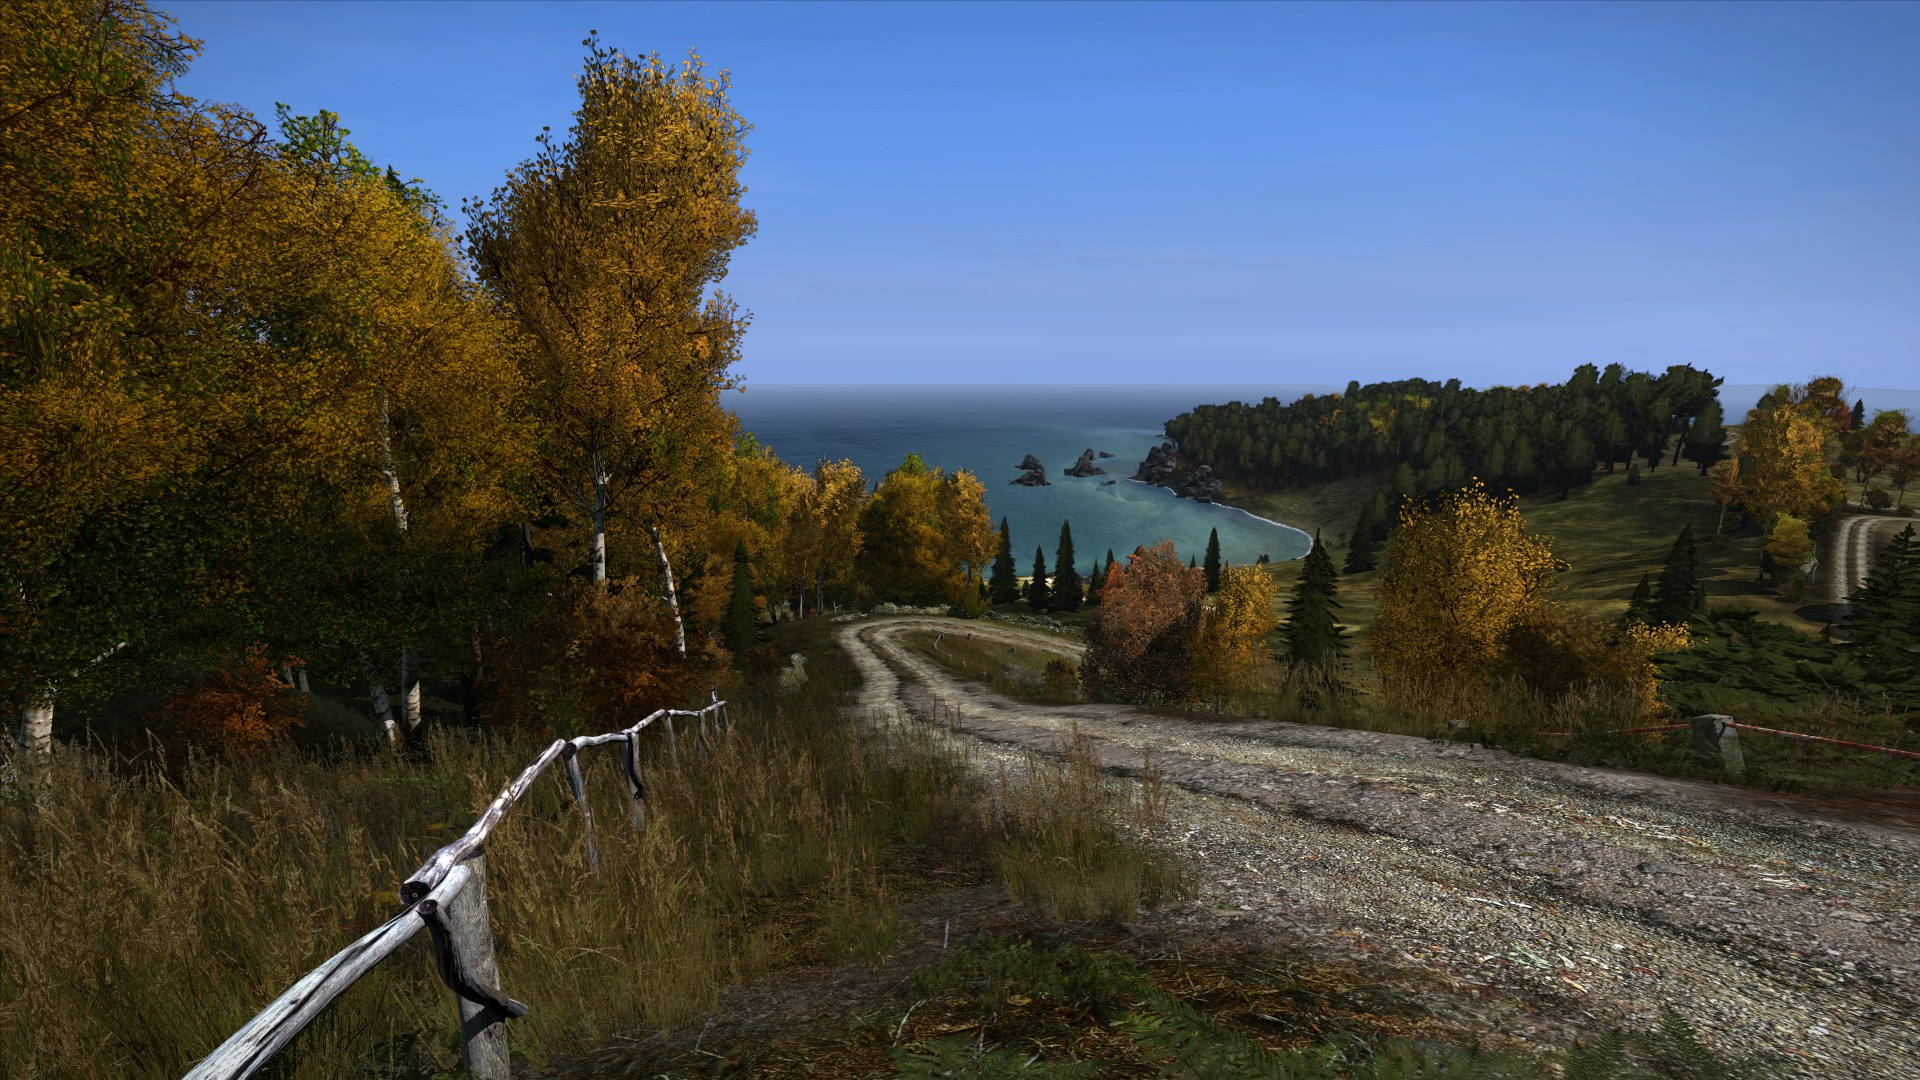
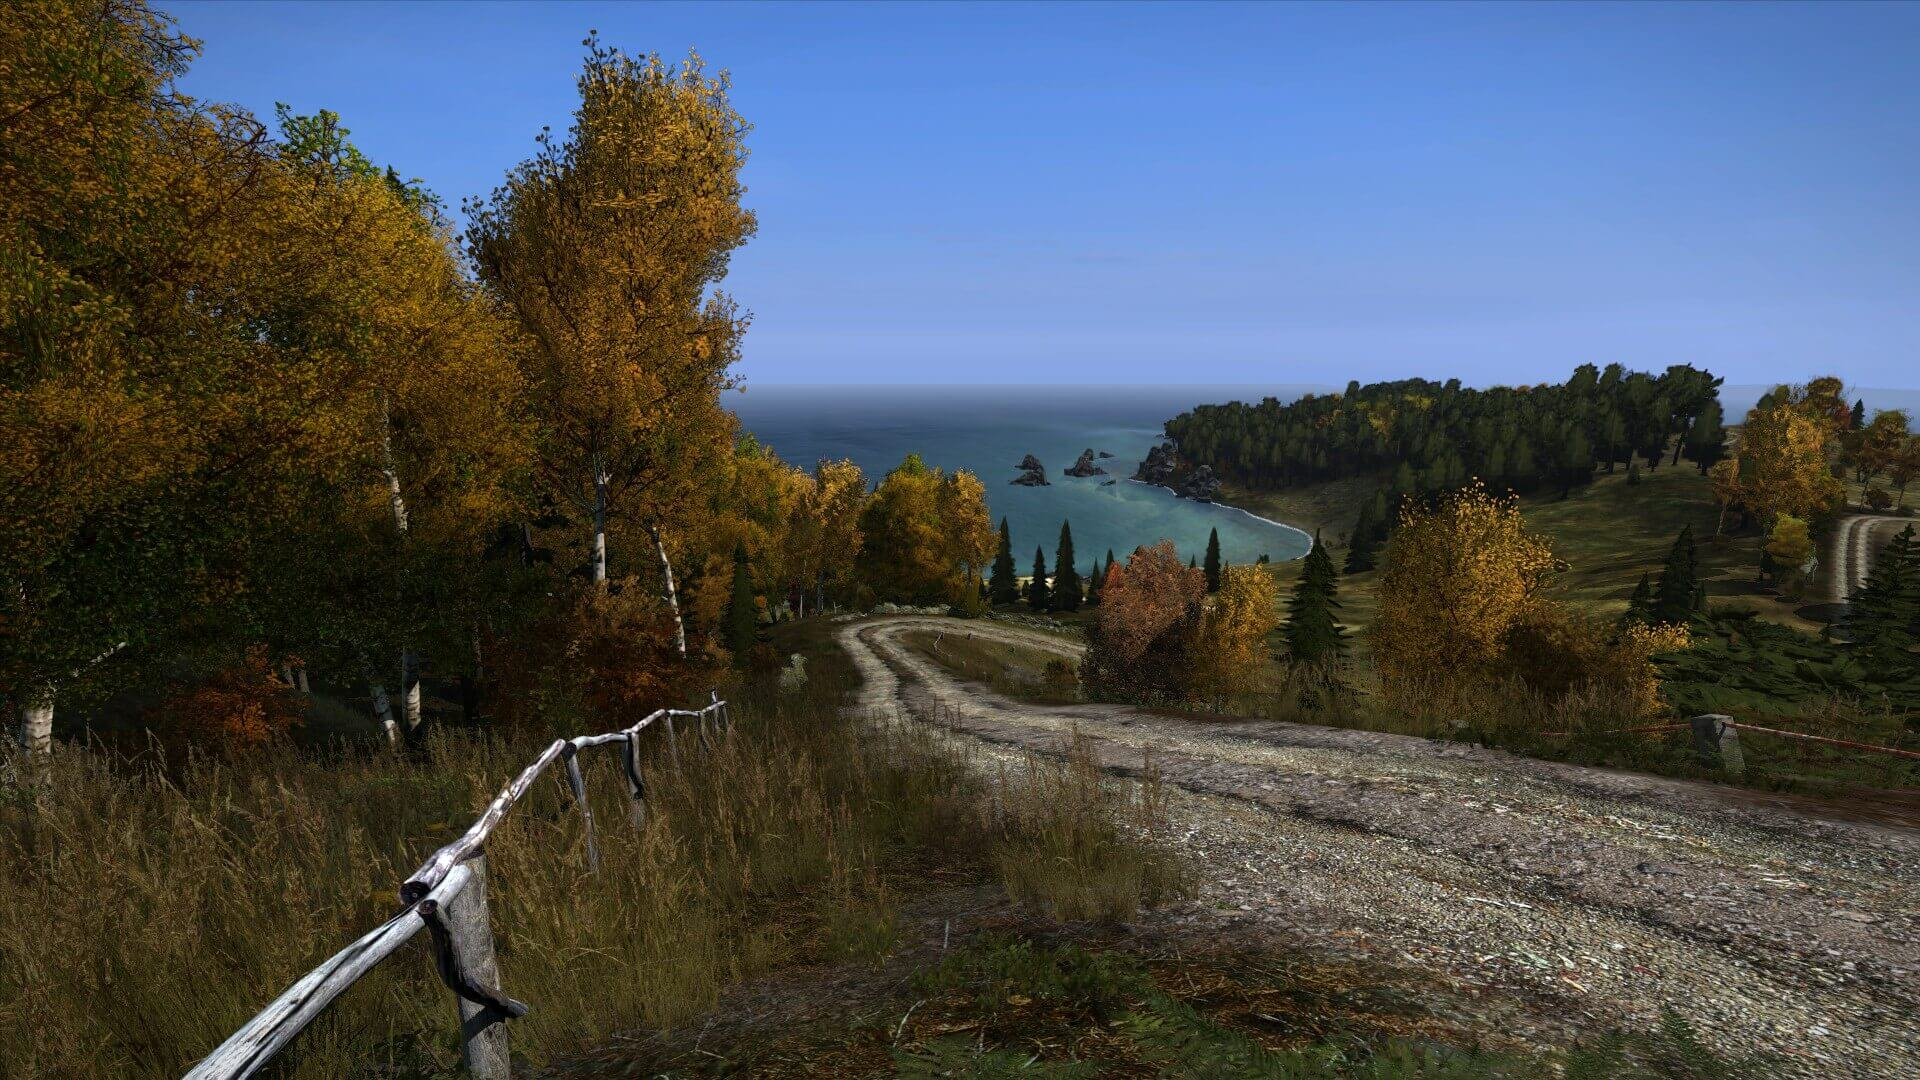
2.0.1
compression des images

diff --git a/index.html b/index.html
@@ -66,6 +66,29 @@
 
     </div>
     <hr>
+
+
+    <div class="post1 row">
+      <figure class="illustration col-md-3">
+      <img src="img/dayz.jpg" alt="dayz screen">-
+      </figure>
+
+
+      <div class="col-md-5">
+
+        <div class="title1">
+          <h1>Titre du post</h1>
+        </div>
+        <div class="description">
+          <p>Description du postLorem ipsum dolor sit amet, consectetur adipiscing elit. Praesent cursus eros vehicula ex aliquam, eget tempor justo facilisis. Aliquam ac egestas purus, vitae aliquet ipsum. Fusce ipsum nisi, sodales sit amet sagittis eu, consequat venenatis nunc. Phasellus non neque ut felis viverra gravida. Proin aliquet arcu a tellus semper bibendum.Description du postLorem ipsum dolor sit amet, consectetur adipiscing elit. Praesent cursus eros vehicula ex aliquam, eget tempor justo facilisis. Aliquam ac egestas purus, vitae aliquet ipsum. Fusce ipsum nisi, sodales sit amet sagittis eu, consequat venenatis nunc. Phasellus non neque ut felis viverra gravida. Proin aliquet arcu a tellus semper bibendum.</p>
+        </div>
+
+      </div>
+
+
+
+    </div>
+    <hr>
   </section>
 </body>
 </html>
